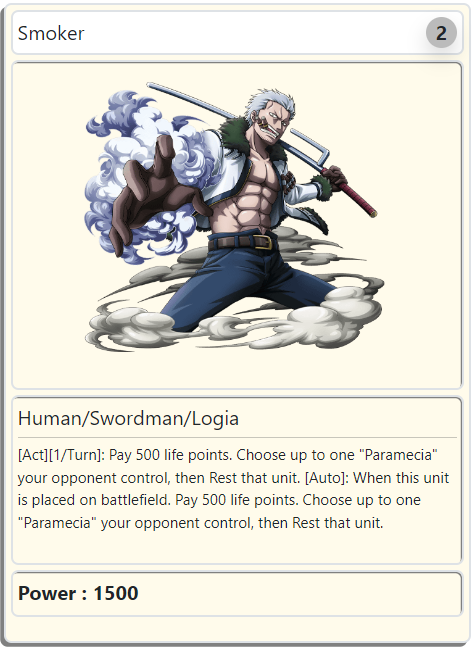
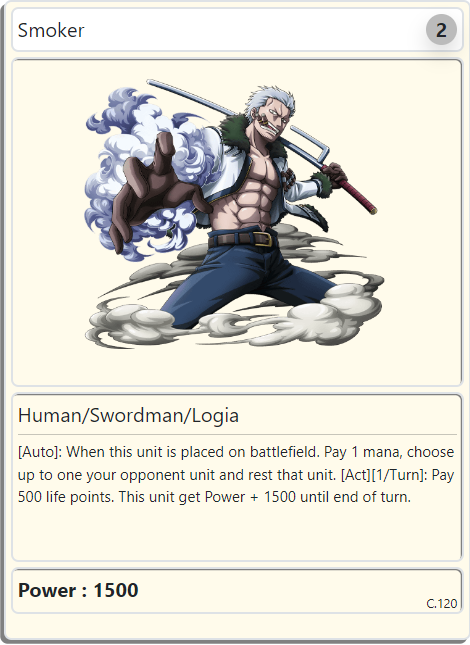
C120

Changed region(s): [[0.0, 0.0, 1.0, 1.0], [0.0298, 0.8992, 0.2979, 0.9302]]

diff --git a/src/views/arena/new-arena/index.vue b/src/views/arena/new-arena/index.vue
@@ -880,7 +880,9 @@ export default {
         data.unit.card.code === '105' ||
         data.unit.card.code === '110' ||
         data.unit.card.code === '111' ||
-        data.unit.card.code === '118'
+        data.unit.card.code === '118' ||
+        data.unit.card.code === '119' ||
+        data.unit.card.code === '120'
       ) {
         data.option.act = 'ACT'
       }
@@ -2592,6 +2594,7 @@ export default {
       if (data.unit.card.code === '069') { this.EFF069_AUTO(data) }
       if (data.unit.card.code === '094') { this.EFF094(data) }
       if (data.unit.card.code === '104') { this.EFF104(data) }
+      if (data.unit.card.code === '120') { this.EFF120_AUTO(data) }
     },
     AUTO_ON_SEND_TO_DROP (data) {
       if (data.unit.card.code === '009') { this.EFF009(data) }
@@ -2880,6 +2883,8 @@ export default {
         if (data.unit.card.code === '110') { this.EFF110(data) }
         if (data.unit.card.code === '111') { this.EFF111(data) }
         if (data.unit.card.code === '118') { this.EFF118(data) }
+        if (data.unit.card.code === '119') { this.EFF119(data) }
+        if (data.unit.card.code === '120') { this.EFF120_ACT(data) }
         data.unit.onePerTurn = true
       }
     },
@@ -2977,7 +2982,6 @@ export default {
         this.discard({ who: data.who, index: cards[index] })
       }
       if (data.cost === 'pay life and discard') {
-        this.damage({ who: data.who, damage: data.pay })
         if (data.who === 'player') {
           data.hand = this.data.player.hand
         } else {
@@ -2991,6 +2995,7 @@ export default {
         }
         const index = Math.floor(Math.random() * cards.length)
         this.discard({ who: data.who, index: cards[index] })
+        this.damage({ who: data.who, damage: data.pay })
       }
       if (data.cost === 'bind from drop') {
         if (data.who === 'player') {
@@ -5564,6 +5569,44 @@ export default {
           this.SEARCH_DROP_FOR_RACE(data)
         }
       }
+    },
+    EFF119 (data) { // Alvida
+      if (data.who === 'player') {
+        data.hand = this.data.player.hand
+      } else {
+        data.hand = this.data.opponent.hand
+      }
+      if (data.hand.length > 0) {
+        data.cost = 'discard'
+        data.discard = ''
+        this.COST(data)
+        this.CALL_FROM_DECK_BY_NAME({ who: data.who, name: 'Buggy' })
+      }
+    },
+    EFF120_AUTO (data) { // Smoker
+      if (data.who === 'player') {
+        data.mana = this.data.player.mana.use
+      } else {
+        data.mana = this.data.opponent.mana.use
+      }
+      if (data.mana > 0) {
+        if (data.who === 'player') {
+          this.data.player.mana.use -= 1
+        } else {
+          this.data.opponent.mana.use -= 1
+        }
+        data.todo = 'rest unit'
+        this.SELECT_OP_FIELD(data)
+      } else {
+        this.Toast('error', 'Mana tidak cukup !!!')
+      }
+    },
+    EFF120_ACT (data) { // Smoker
+      data.cost = 'pay life'
+      data.pay = 500
+      this.COST(data)
+      data.gain = 1500
+      this.AUTO_POWER(data)
     }
   },
   created () {

diff --git a/src/views/index.vue b/src/views/index.vue
@@ -2772,7 +2772,7 @@ export default {
                 job: 'Swordman',
                 special: 'Logia'
               },
-              text: '[Act][1/Turn]: Pay 500 life points. Choose up to one "Paramecia" your opponent control, then Rest that unit. [Auto]: When this unit is placed on battlefield. Pay 500 life points. Choose up to one "Paramecia" your opponent control, then Rest that unit.',
+              text: '[Auto]: When this unit is placed on battlefield. Pay 1 mana, choose up to one your opponent unit and rest that unit. [Act][1/Turn]: Pay 500 life points. This unit get Power + 1500 until end of turn.',
               power: 1500,
               code: '120'
             },
